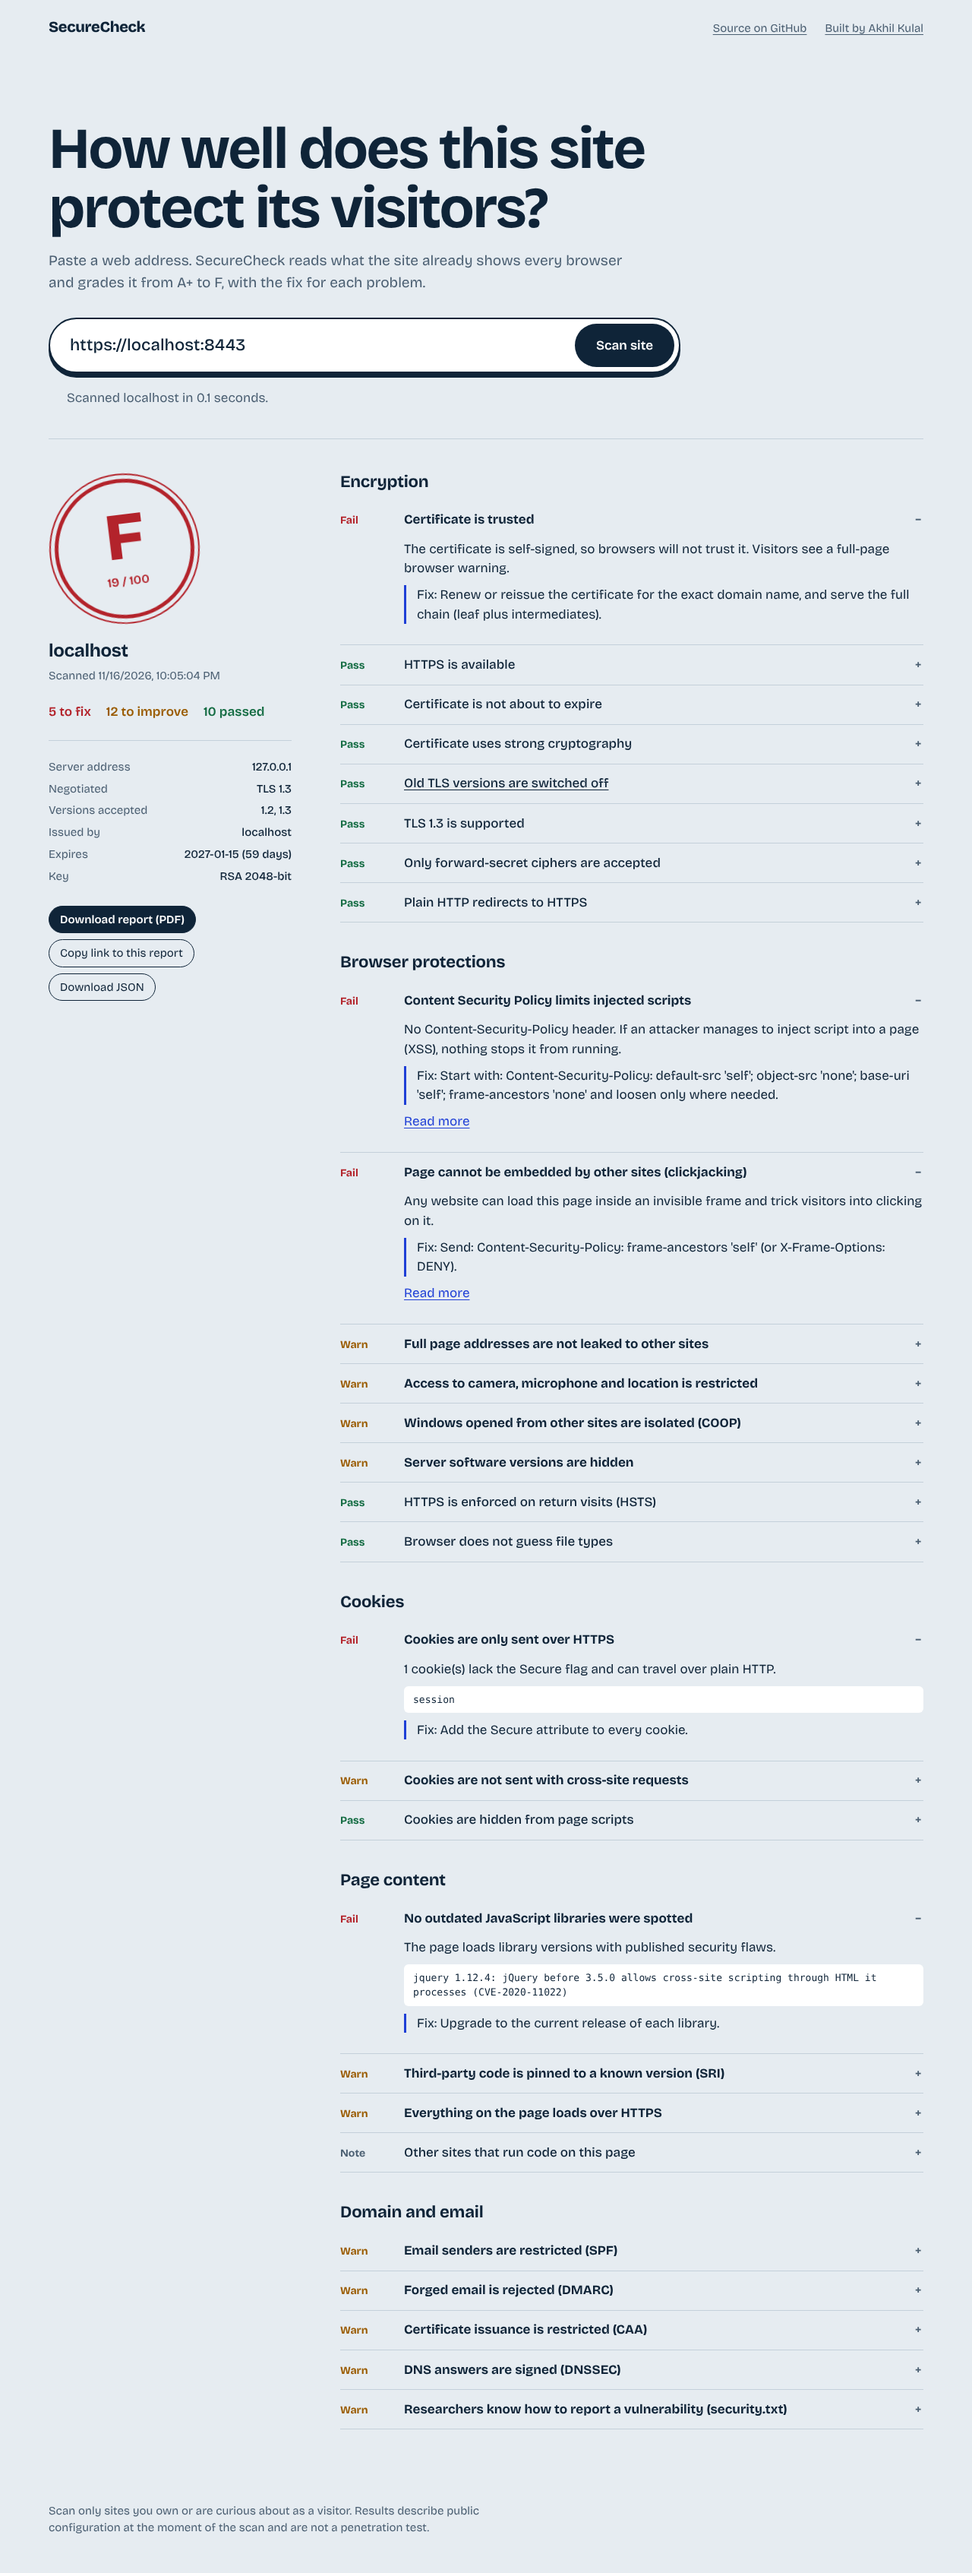
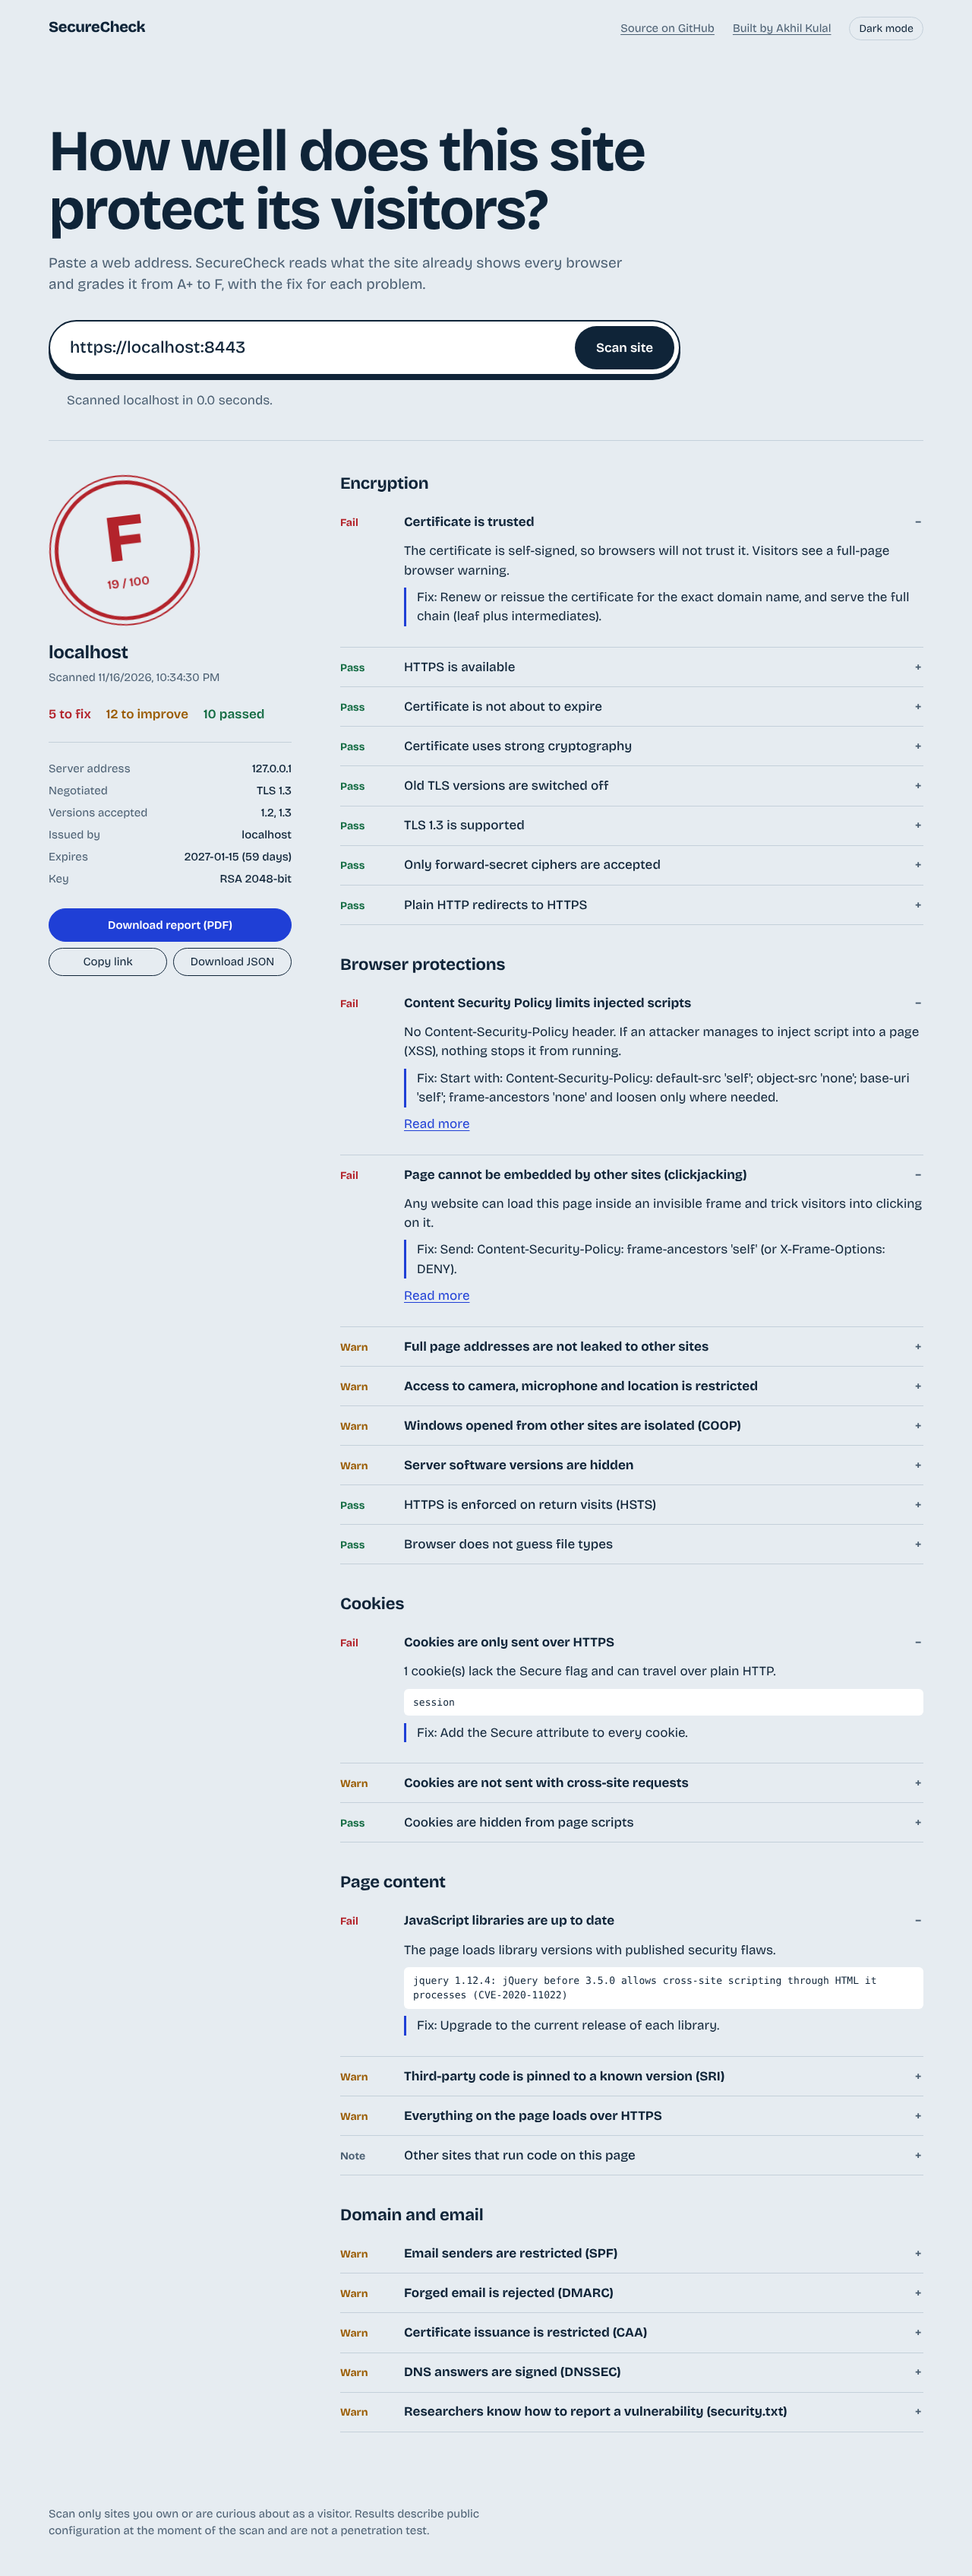
Fix asset caching, add dark mode, tidy report buttons

diff --git a/static/theme.js b/static/theme.js
@@ -1,0 +1,10 @@
+// Sets the colour theme before the page paints, so there is no flash.
+// Loaded as a file (not inline) so the page can keep a strict Content Security Policy.
+(function () {
+  var theme = null;
+  try { theme = localStorage.getItem("securecheck-theme"); } catch (e) { /* storage unavailable */ }
+  if (theme !== "light" && theme !== "dark") {
+    theme = window.matchMedia && window.matchMedia("(prefers-color-scheme: dark)").matches ? "dark" : "light";
+  }
+  document.documentElement.setAttribute("data-theme", theme);
+})();

diff --git a/app/main.py b/app/main.py
@@ -82,8 +82,15 @@ def create_app() -> FastAPI:
         response = await call_next(request)
         for name, value in SECURITY_HEADERS.items():
             response.headers[name] = value
-        if request.url.path.startswith("/api/"):
+        path = request.url.path
+        if path.startswith("/api/"):
             response.headers["Cache-Control"] = "no-store"
+        elif path.startswith("/fonts/"):
+            response.headers["Cache-Control"] = "public, max-age=31536000, immutable"
+        else:
+            # Pages, scripts and styles: always revalidate, so a new release is
+            # never mixed with stale files held by a browser or CDN.
+            response.headers["Cache-Control"] = "no-cache"
         return response
 
     @app.get("/api/health")

diff --git a/tests/test_integration.py b/tests/test_integration.py
@@ -115,6 +115,12 @@ def test_api_blocks_internal_targets_and_sets_own_headers():
     assert page.status_code == 200
     assert "frame-ancestors 'none'" in page.headers["content-security-policy"]
     assert page.headers["x-content-type-options"] == "nosniff"
+    assert page.headers["cache-control"] == "no-cache"
+    assert client.get("/app.js").headers["cache-control"] == "no-cache"
+    # every asset the page references is versioned and exists
+    import re
+    for ref in re.findall(r'(?:href|src)="([a-z.]+\.(?:css|js))\?v=\d+"', page.text):
+        assert client.get("/" + ref).status_code == 200, ref
 
 
 def test_api_rate_limit(monkeypatch):
